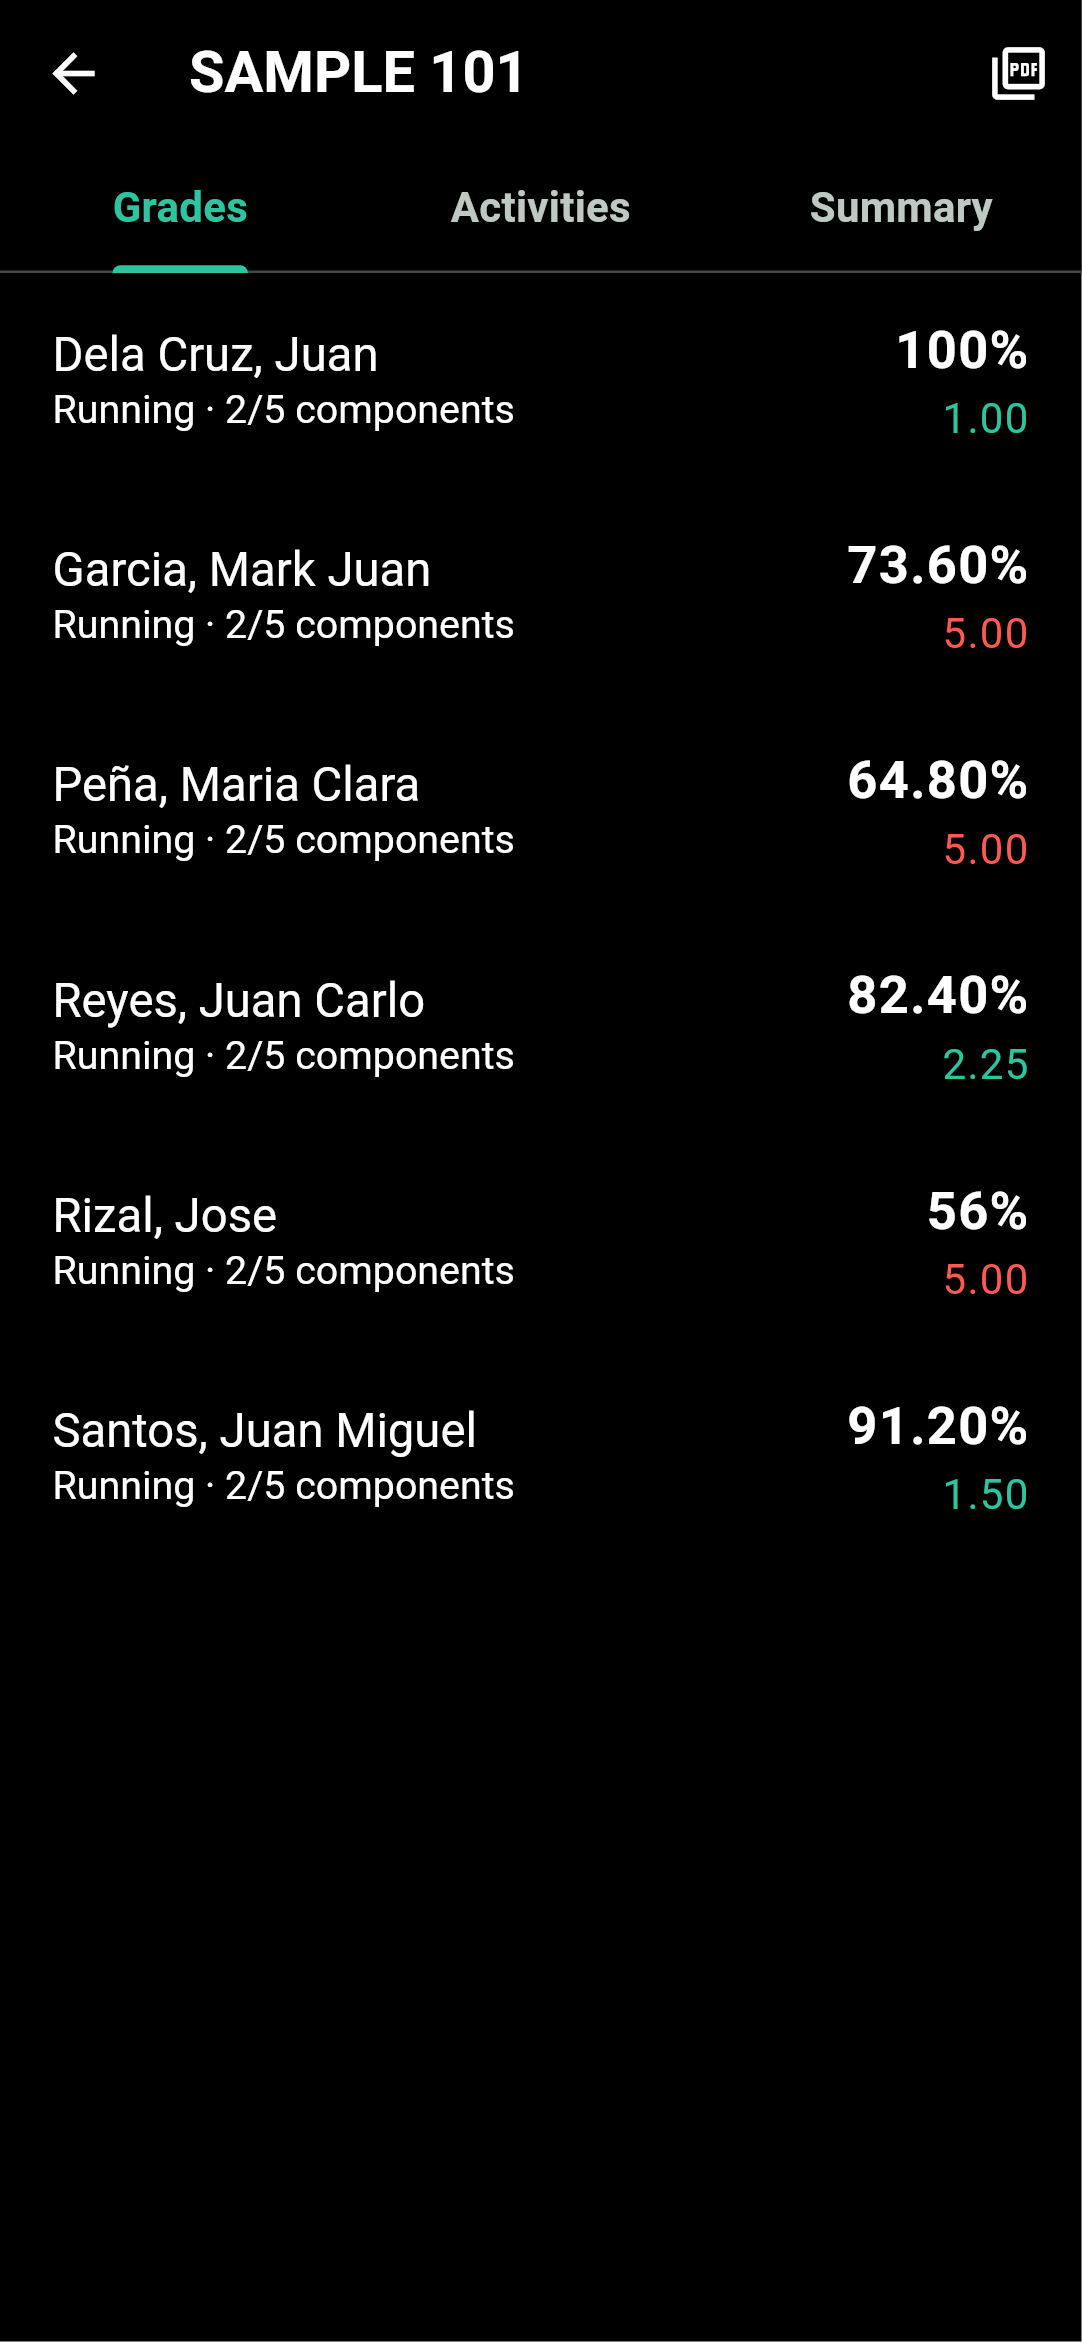
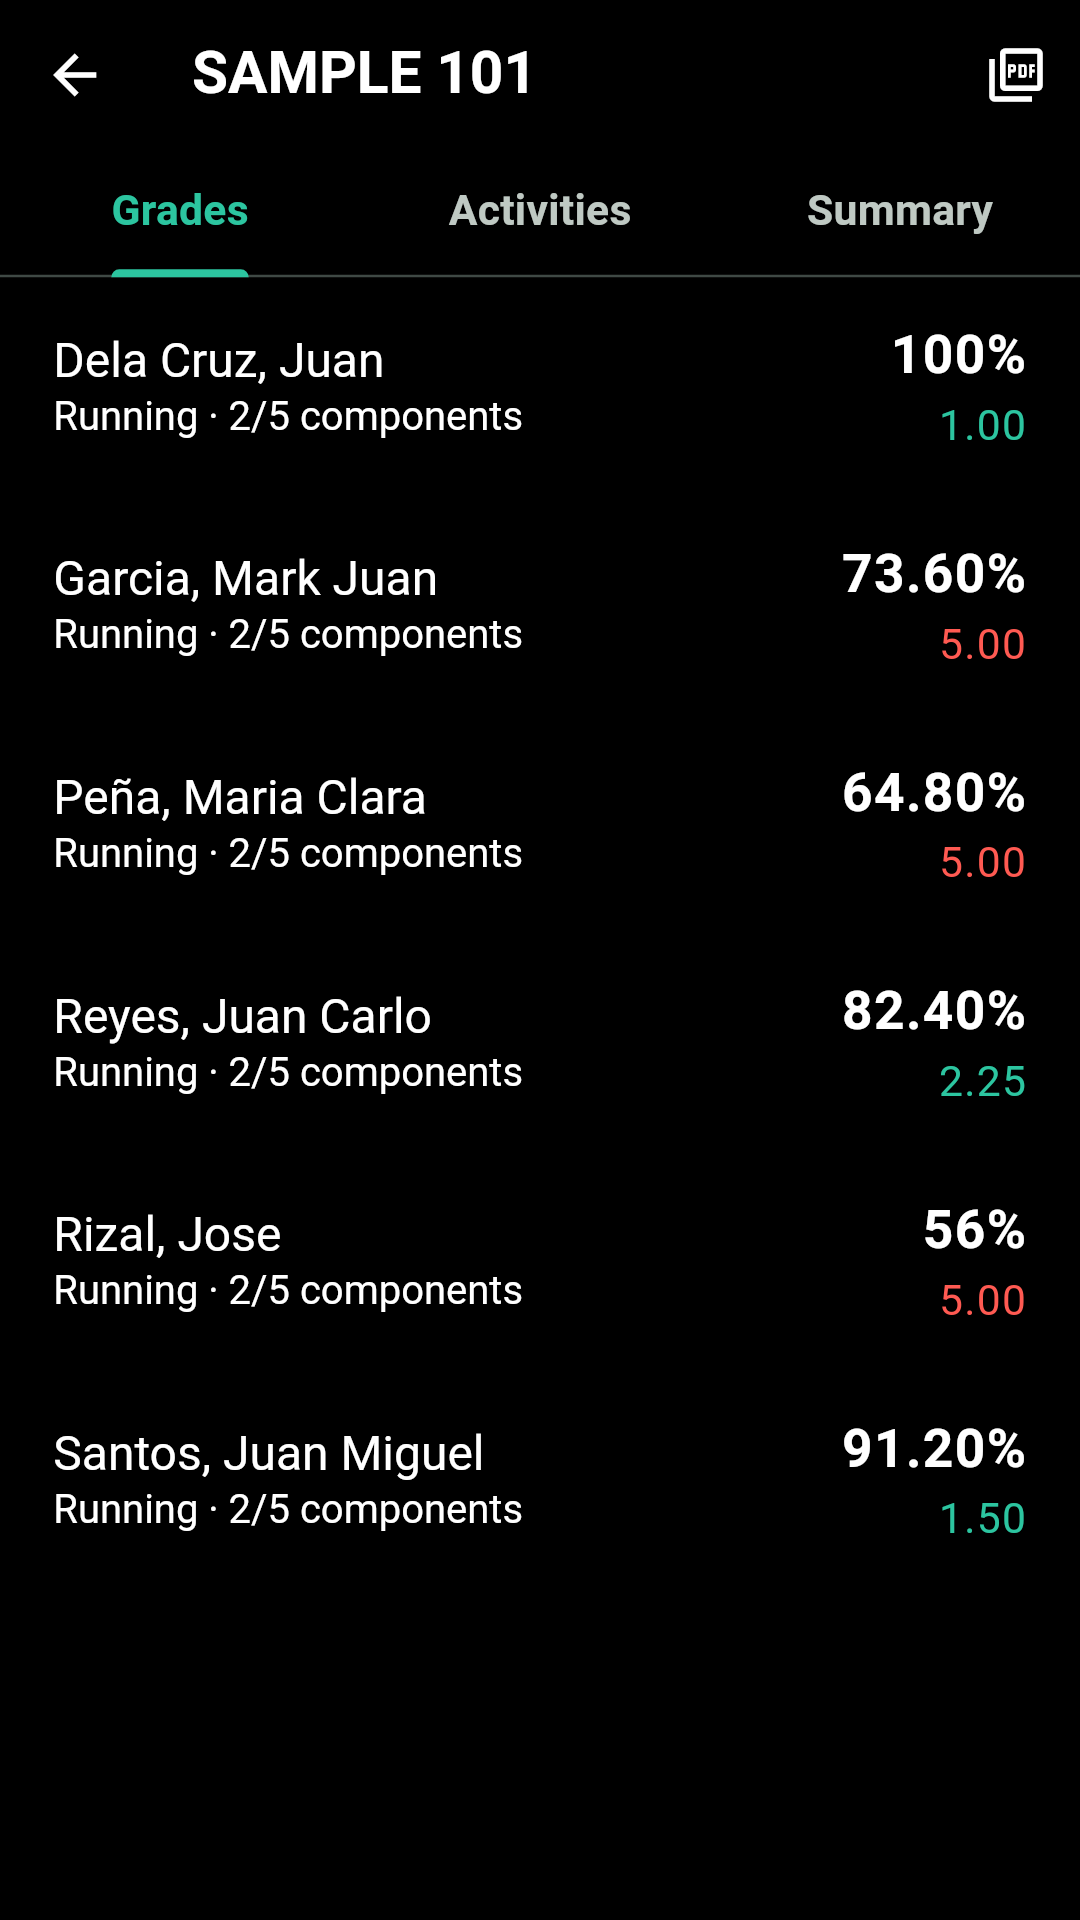
ACEkor store: Play-ready 1080x1920 screenshots; tester invitation
- Screenshots are rendered at 405x720 dp x 8/3 = 1080x1920 (9:16). The
  old 1082x2342 ones were taller than Play's 2:1 limit and had an alpha
  channel. Store copies in acekor/store/screenshots/ are plain RGB.
- AppHarness.pump takes an optional pixel ratio.
- acekor/store/tester_invitation.md: Google Group set-up and the two
  messages for the 12+ closed-test colleagues.

Claude-Session: https://claude.ai/code/session_01N669D1CzkfSEzy6pFQ8PVG

diff --git a/acekor/app/tool/screenshots/screenshots_test.dart b/acekor/app/tool/screenshots/screenshots_test.dart
@@ -36,9 +36,12 @@ void main() {
   testWidgets('screenshots', (tester) async {
     await tester.runAsync(loadFonts);
     final h = AppHarness();
-    await h.pump(tester, size: const Size(412, 892));
+    // 405 × 720 dp at 8/3 → 1080 × 1920 px, the 9:16 size Play recommends.
+    await h.pump(tester, size: const Size(405, 720), pixelRatio: 8 / 3);
     await shot(tester, '01_welcome');
     await tester.scrollUntilVisible(find.text('Try with a sample class'), 200);
+    await tester.drag(find.byType(Scrollable).first, const Offset(0, -400));
+    await AppHarness.settle(tester, 4);
     await tester.tap(find.text('Try with a sample class'));
     await AppHarness.settle(tester, 30);
 

diff --git a/acekor/app/test/support/app_harness.dart b/acekor/app/test/support/app_harness.dart
@@ -31,9 +31,9 @@ class AppHarness {
 
   AppDatabase get db => container.read(databaseProvider);
 
-  Future<void> pump(WidgetTester tester, {Size size = const Size(412, 892)}) async {
-    tester.view.physicalSize = size * 2.625;
-    tester.view.devicePixelRatio = 2.625;
+  Future<void> pump(WidgetTester tester, {Size size = const Size(412, 892), double pixelRatio = 2.625}) async {
+    tester.view.physicalSize = size * pixelRatio;
+    tester.view.devicePixelRatio = pixelRatio;
     addTearDown(tester.view.reset);
     driftRuntimeOptions.dontWarnAboutMultipleDatabases = true;
     final dir = Directory.systemTemp.createTempSync('acekor_test');

diff --git a/acekor/store/tester_invitation.md b/acekor/store/tester_invitation.md
@@ -1,0 +1,64 @@
+# ACEkor Grading Sheet: closed-test testers
+
+Google Play requires **at least 12 testers** to stay in the closed test for **14 days in a row**
+before the app can be published. Invite 15 or more colleagues in case someone drops out.
+
+## 1. Make the tester group (owner, 5 minutes)
+
+Testers join a Google Group; the group is then added to the closed test in Play Console, so
+nobody's email has to be typed into Play Console.
+
+1. Open **groups.google.com** with the developer Google account → **Create group**.
+2. **Name:** `ACEkor testers`. **Group email:** `acekor-testers` (if taken, try
+   `acekor-testers-nye94`). → **Next**.
+3. **Privacy settings:**
+   - Who can search for group: **Anyone on the web**.
+   - Who can join group: **Anyone can join**.
+   - Who can view conversations: **Group members**.
+   - Who can post: **Group managers**.
+   - Who can view members: **Group managers** (testers don't see each other's emails).
+4. Skip adding members → **Create group**.
+5. Copy the group's link, e.g. `https://groups.google.com/g/acekor-testers`, and put it in
+   message 1 below.
+
+## 2. Message 1: send now (join the group)
+
+> Hi! I made an Android app for us instructors: **ACEkor Grading Sheet**. You search a student,
+> type the score on a big keypad, and it saves the score and percentage (e.g. 42/50 → 84%) to your
+> class record. It also does weighted grades, PDF/Excel reports, and works offline.
+>
+> Before it goes on the Play Store, Google requires at least 12 people to test it for 14 days.
+> Could you help? It's free, and you can use it for your real classes.
+>
+> **What you need:** an Android phone (Android 7 or newer) and the Gmail account you use in the
+> Play Store.
+>
+> **Step 1 (now):** open this link with that Gmail account and tap **Join group**:
+> GROUP_LINK
+>
+> In a few days I'll send you the Play Store link to install it. Thank you!
+
+## 3. Message 2: send when the closed test is live (install)
+
+> The ACEkor Grading Sheet test is ready. Thank you for joining!
+>
+> 1. On your phone, open this link (with the same Gmail account) and tap **Become a tester**:
+>    OPT_IN_LINK
+> 2. Tap **Download it on Google Play** and install **ACEkor Grading Sheet**.
+> 3. Open it and tap **Try with a sample class**, or add your own class. Tap **Start free
+>    trial** and sign in with Google once. Everything is unlocked during the test.
+> 4. **Please keep the app installed and stay in the test for at least 14 days**, and open it every
+>    few days. Google counts this.
+>
+> Your students' names and scores stay on your phone; they are never uploaded.
+>
+> If something is wrong or confusing, tell me, or use **Send feedback** on the app's Play Store
+> page. Screenshots help a lot!
+
+## 4. Owner checklist during the test
+
+- Count the members on **groups.google.com → ACEkor testers → Members**: 12 or more.
+- Play Console → **Closed testing → Testers**: the group email is added, and the opt-in link is
+  copied into message 2.
+- Day 1 is the day 12 testers have opted in. Keep a note of the date; day 15 is the earliest day
+  to **Apply for production**.

diff --git a/acekor/docs/PLAY_RELEASE.md b/acekor/docs/PLAY_RELEASE.md
@@ -139,7 +139,8 @@ Production.
    - text in `acekor/store/listing.md`;
    - icon `acekor/store/play_icon_512.png`;
    - feature graphic `acekor/store/feature_graphic_1024x500.png`;
-   - phone screenshots from `acekor/app/tool/screenshots/out/` (or real ones).
+   - phone screenshots `acekor/store/screenshots/` (8 × 1080 × 1920 PNG, no transparency; made by
+     `acekor/app/tool/screenshots/`), or real ones.
 2. **App content:**
    - Privacy policy: `https://playboydata1994-hue.github.io/acekanner/acekor/privacy/` (live once
      PR #1 is merged).
@@ -149,7 +150,7 @@ Production.
    - **Data safety:** see `acekor/store/listing.md` § Data safety.
    - Content rating: Utility/Productivity, no objectionable content.
    - Government app: no. Financial features: no. Health: no.
-3. **Testers:**
+3. **Testers** (group set-up and invitation messages: `acekor/store/tester_invitation.md`):
    - **Closed testing → Create track** (or use "Alpha").
    - Testers: a Google Group, or an email list of 12+ colleagues. Invite 15 or more in case someone
      drops out.
